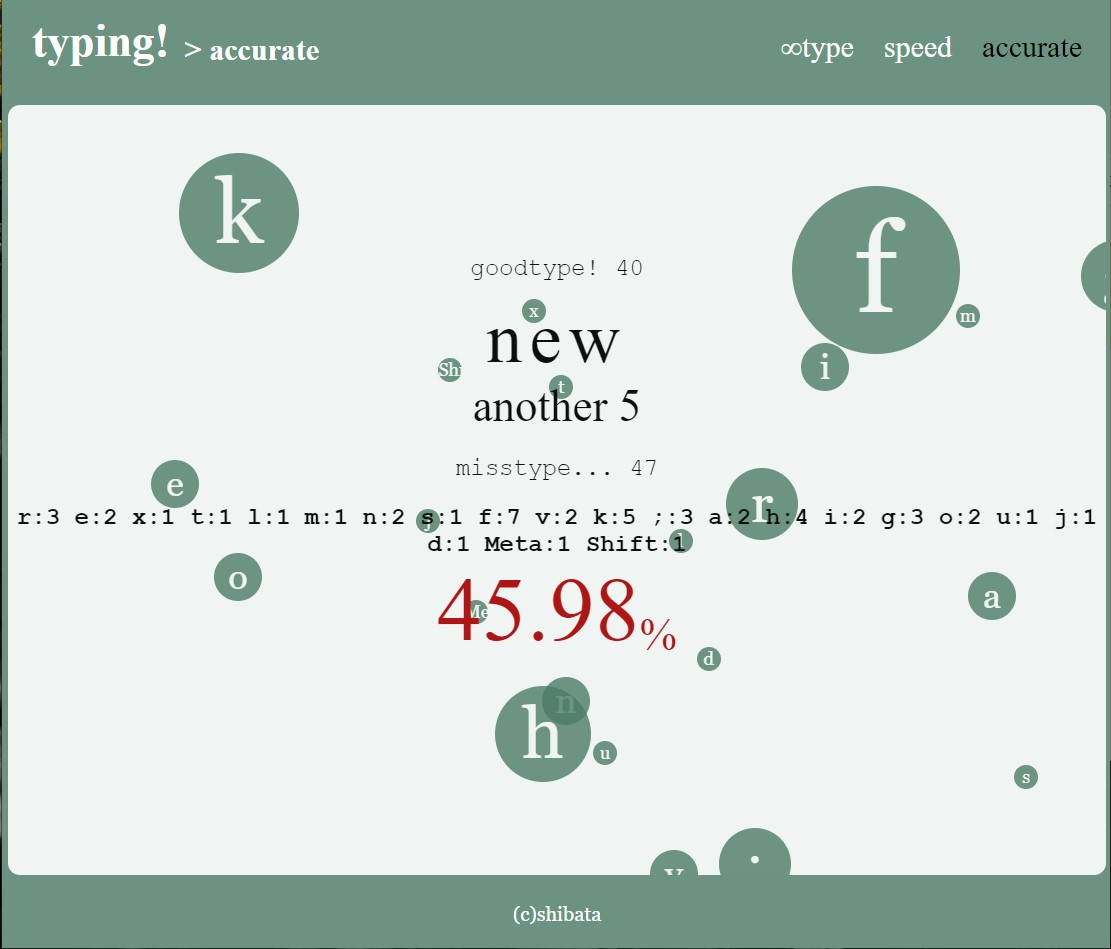
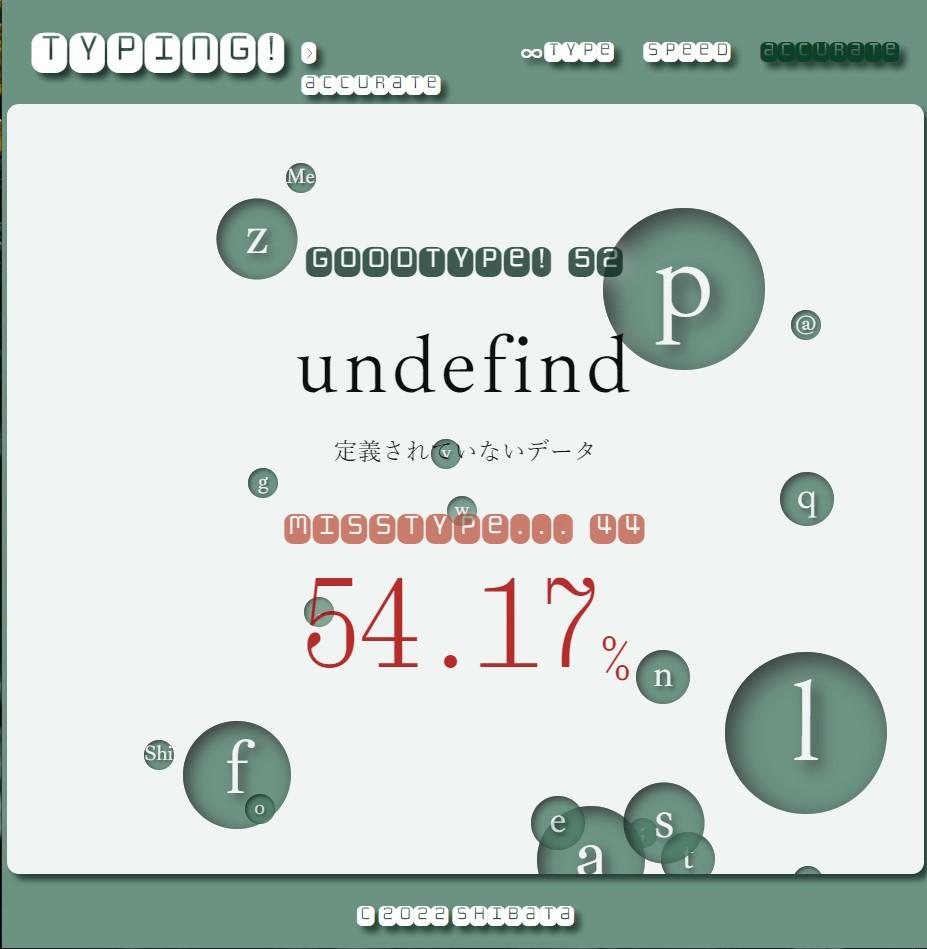
一瞬で連続して問題が変わらないように変更
ミスして問題が変更した後に、1秒間はミスにならないように変更

diff --git a/js/main.js b/js/main.js
@@ -44,6 +44,7 @@
 
   //時間関係
   let isTyping = false;
+  let missHold = false;
   
   //出題数(文字数)
   const QuestionLength = 350;
@@ -169,6 +170,9 @@
       };
 
     } else { //ミスタイプした場合
+      if(missHold){
+        return;
+      };
       //ミスタイプに加点
       badCount++;
       bad.textContent = badCount;
@@ -203,6 +207,11 @@
         finish();
       };
       setQuestion();
+      //連続で問題が飛ばされないように1秒キープ
+      missHold = true;
+      setTimeout(()=>{
+        missHold = false;
+      },1000);
     };
   });
 

diff --git a/css/style.css b/css/style.css
@@ -91,7 +91,6 @@ ul li a:hover{
   align-items: center;
 }
 #container{
-  overflow: hidden;
   width: 100%;
   visibility:hidden;
 }
@@ -157,7 +156,7 @@ ul li a:hover{
 #goodtype{
   display: flex;
   justify-content: center;
-  padding: 0 0 20px;
+  padding: 10px 0 20px;
   font-size: 30px;
   letter-spacing: .05em;
   opacity: .8;
@@ -385,7 +384,7 @@ footer{
 
 /* mobile */
 
-@media(max-width: 600px){
+@media(max-width: 640px){
   .normal_menu{
    display: none;
   }
